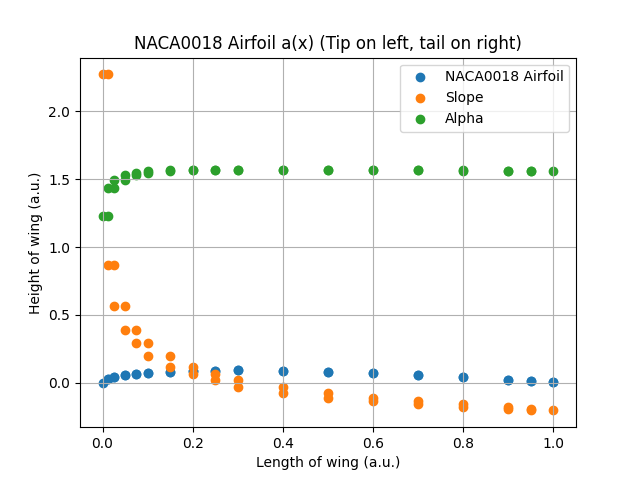
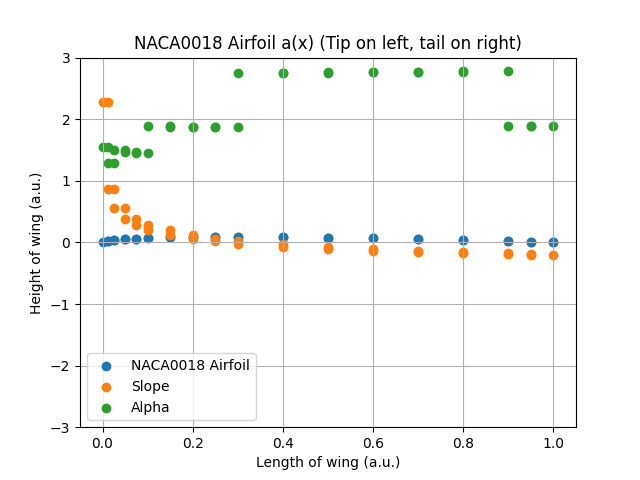
new alpha plots

diff --git a/main_airfoil.py b/main_airfoil.py
@@ -15,7 +15,7 @@ def get_airfoil_positions():
     x = []
     y = []
     # Get NACA0018 profile and set to x and y
-    with open("./naca0018.dat", 'rb') as file:
+    with open("./naca{}.dat".format(NACA_number), 'rb') as file:
         for line in file:
             x_value = str(line[0:6].decode("utf-8"))
             y_value = str(line[12:19].decode("utf-8"))
@@ -37,54 +37,59 @@ def get_airfoil_slope_function(x, y):
         else:
             slope = (y[count] - y[count-1])/(x[count] - x[count-1])
             a.append(slope)
-    print(a)
     return a, t
 
 
 def get_airfoil_alpha_function(x, y):
     """
-    Given a set of airfoil points, generates a slope function across airfoil
+    Given a set of airfoil points, generates an alpha function across airfoil
     :return:
     """
     points = len(x)
-    alpha_1_length = float(1/points)
+    alpha_1_length = float(2/points)
     alpha = []
     first = True
+    print(x)
+    print(y)
     for count, point in enumerate(x, 0):
         if first:
             first = False
         else:
-            alpha_value = np.cos(np.arctan(abs((y[count] - y[count-1])/(x[count] - x[count-1]))))*alpha_1_length*20+1
+            # New alpha calculation based on length change prop to expansion ratio
+            alpha_value = (np.sqrt((y[count] - y[count-1])**2+(x[count] - x[count-1])**2))/alpha_1_length + 1
             alpha.append(alpha_value)
-    print(alpha)
-    print(type(alpha))
     return alpha, t
 
 
 def plot_airfoil_slope(x, a, y, alpha):
     """
-    Generates plot of slope across NACA0018 airfoil
+    Generates plot of slope and alpha across an airfoil
     :param x:
     :param a:
     :return:
     """
     plt.figure(1)
-    plt.scatter(x=x, y=y, label="NACA0018 Airfoil")
+    plt.scatter(x=x, y=y, label="NACA{} Airfoil".format(NACA_number))
     plt.scatter(x=x[1:], y=a, label="Slope")
     plt.scatter(x=x[1:], y=alpha, label="Alpha")
-    plt.title("NACA0018 Airfoil a(x) (Tip on left, tail on right)")
+    plt.title("NACA{} Airfoil a(x) (Tip on left, tail on right)".format(NACA_number))
     plt.xlabel("Length of wing (a.u.)")
     plt.ylabel("Height of wing (a.u.)")
+    plt.ylim((-3, 3))
     plt.grid()
     plt.legend()
-    plt.savefig("NACA0018 Airfoil a(x)")
-    plt.show()
+    plt.savefig("NACA{} Airfoil a(x)".format(NACA_number))
+    # plt.show()
     plt.close()
 
+
 if __name__ == '__main__':
-    x_values, y_values, t = get_airfoil_positions()
-    a_values, t = get_airfoil_slope_function(x=x_values, y=y_values)
-    alpha_values, t = get_airfoil_alpha_function(x=x_values, y=y_values)
-    plot_airfoil_slope(x_values, a_values, y_values, alpha_values)
+    NACA_numbers = ["0018", "4412", "6412"]
+    for number in NACA_numbers:
+        NACA_number = number
+        x_values, y_values, t = get_airfoil_positions()
+        a_values, t = get_airfoil_slope_function(x=x_values, y=y_values)
+        alpha_values, t = get_airfoil_alpha_function(x=x_values, y=y_values)
+        plot_airfoil_slope(x_values, a_values, y_values, alpha_values)
 
 
